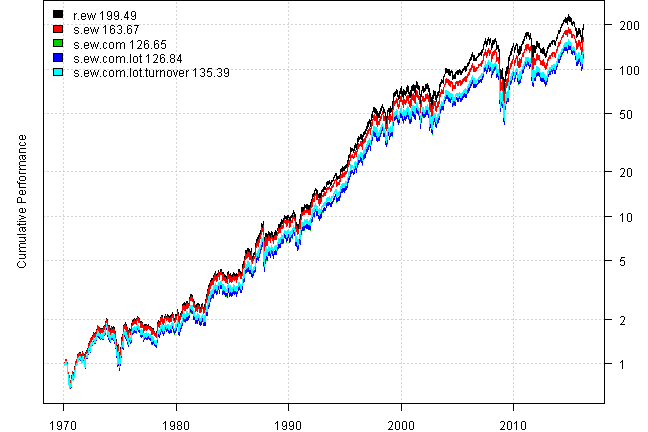
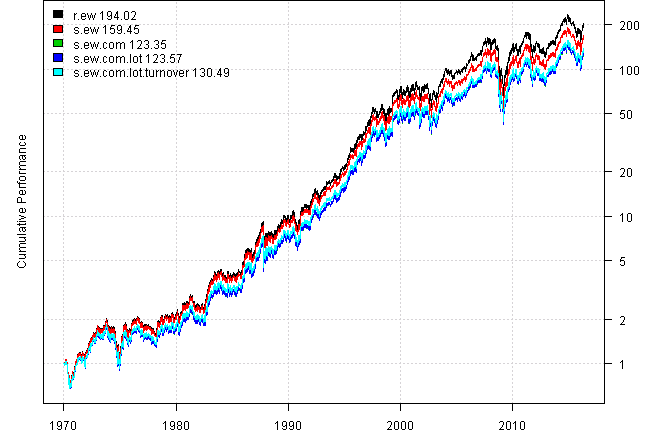
update blog post

diff --git a/_posts/2015-10-19-Backtest-Reality-Check.md b/_posts/2015-10-19-Backtest-Reality-Check.md
@@ -99,16 +99,16 @@ print(plotbt.strategy.sidebyside(models, make.plot=F, return.table=T,perfromance
 
 |              |r.ew              |
 |:-------------|:-----------------|
-|Period        |Jan1970 - Apr2016 |
-|Cagr          |12.11             |
+|Period        |Jan1970 - May2016 |
+|Cagr          |12.03             |
 |Sharpe        |0.65              |
 |DVR           |0.52              |
 |R2            |0.8               |
-|Volatility    |20.98             |
+|Volatility    |20.97             |
 |MaxDD         |-60.67            |
 |Exposure      |99.82             |
 |Win.Percent   |100               |
-|Avg.Trade     |1811.23           |
+|Avg.Trade     |1765.79           |
 |Profit.Factor |NaN               |
 |Num.Trades    |5                 |
     
@@ -146,18 +146,18 @@ print(plotbt.strategy.sidebyside(models, make.plot=F, return.table=T,perfromance
 
 |              |r.ew              |s.ew              |
 |:-------------|:-----------------|:-----------------|
-|Period        |Jan1970 - Apr2016 |Jan1970 - Apr2016 |
-|Cagr          |12.11             |11.64             |
+|Period        |Jan1970 - May2016 |Jan1970 - May2016 |
+|Cagr          |12.03             |11.56             |
 |Sharpe        |0.65              |0.63              |
 |DVR           |0.52              |0.51              |
 |R2            |0.8               |0.81              |
-|Volatility    |20.98             |20.9              |
+|Volatility    |20.97             |20.89             |
 |MaxDD         |-60.67            |-60.88            |
 |Exposure      |99.82             |99.82             |
-|Win.Percent   |100               |55.49             |
-|Avg.Trade     |1811.23           |0.21              |
+|Win.Percent   |100               |55.62             |
+|Avg.Trade     |1765.79           |0.21              |
 |Profit.Factor |NaN               |1.4               |
-|Num.Trades    |5                 |2779              |
+|Num.Trades    |5                 |2785              |
     
 
 
@@ -192,18 +192,18 @@ print(plotbt.strategy.sidebyside(models, make.plot=F, return.table=T,perfromance
 
 |              |r.ew              |s.ew              |s.ew.com          |
 |:-------------|:-----------------|:-----------------|:-----------------|
-|Period        |Jan1970 - Apr2016 |Jan1970 - Apr2016 |Jan1970 - Apr2016 |
-|Cagr          |12.11             |11.64             |11.02             |
+|Period        |Jan1970 - May2016 |Jan1970 - May2016 |Jan1970 - May2016 |
+|Cagr          |12.03             |11.56             |10.94             |
 |Sharpe        |0.65              |0.63              |0.6               |
 |DVR           |0.52              |0.51              |0.49              |
 |R2            |0.8               |0.81              |0.81              |
-|Volatility    |20.98             |20.9              |20.89             |
+|Volatility    |20.97             |20.89             |20.89             |
 |MaxDD         |-60.67            |-60.88            |-60.9             |
 |Exposure      |99.82             |99.82             |99.82             |
-|Win.Percent   |100               |55.49             |55.5              |
-|Avg.Trade     |1811.23           |0.21              |0.21              |
+|Win.Percent   |100               |55.62             |55.62             |
+|Avg.Trade     |1765.79           |0.21              |0.21              |
 |Profit.Factor |NaN               |1.4               |1.4               |
-|Num.Trades    |5                 |2779              |2780              |
+|Num.Trades    |5                 |2785              |2785              |
     
 
 
@@ -239,18 +239,18 @@ print(plotbt.strategy.sidebyside(models, make.plot=F, return.table=T,perfromance
 
 |              |r.ew              |s.ew              |s.ew.com          |s.ew.com.lot      |
 |:-------------|:-----------------|:-----------------|:-----------------|:-----------------|
-|Period        |Jan1970 - Apr2016 |Jan1970 - Apr2016 |Jan1970 - Apr2016 |Jan1970 - Apr2016 |
-|Cagr          |12.11             |11.64             |11.02             |11.02             |
-|Sharpe        |0.65              |0.63              |0.6               |0.61              |
+|Period        |Jan1970 - May2016 |Jan1970 - May2016 |Jan1970 - May2016 |Jan1970 - May2016 |
+|Cagr          |12.03             |11.56             |10.94             |10.95             |
+|Sharpe        |0.65              |0.63              |0.6               |0.6               |
 |DVR           |0.52              |0.51              |0.49              |0.49              |
 |R2            |0.8               |0.81              |0.81              |0.81              |
-|Volatility    |20.98             |20.9              |20.89             |20.89             |
-|MaxDD         |-60.67            |-60.88            |-60.9             |-60.9             |
+|Volatility    |20.97             |20.89             |20.89             |20.88             |
+|MaxDD         |-60.67            |-60.88            |-60.9             |-60.89            |
 |Exposure      |99.82             |99.82             |99.82             |99.82             |
-|Win.Percent   |100               |55.49             |55.5              |55.28             |
-|Avg.Trade     |1811.23           |0.21              |0.21              |0.22              |
+|Win.Percent   |100               |55.62             |55.62             |55.25             |
+|Avg.Trade     |1765.79           |0.21              |0.21              |0.22              |
 |Profit.Factor |NaN               |1.4               |1.4               |1.41              |
-|Num.Trades    |5                 |2779              |2780              |2706              |
+|Num.Trades    |5                 |2785              |2785              |2726              |
     
 
 	
@@ -289,18 +289,18 @@ print(plotbt.strategy.sidebyside(models, make.plot=F, return.table=T,perfromance
 
 |              |r.ew              |s.ew              |s.ew.com          |s.ew.com.lot      |s.ew.com.lot.turnover |
 |:-------------|:-----------------|:-----------------|:-----------------|:-----------------|:---------------------|
-|Period        |Jan1970 - Apr2016 |Jan1970 - Apr2016 |Jan1970 - Apr2016 |Jan1970 - Apr2016 |Jan1970 - Apr2016     |
-|Cagr          |12.11             |11.64             |11.02             |11.02             |11.18                 |
-|Sharpe        |0.65              |0.63              |0.6               |0.61              |0.61                  |
+|Period        |Jan1970 - May2016 |Jan1970 - May2016 |Jan1970 - May2016 |Jan1970 - May2016 |Jan1970 - May2016     |
+|Cagr          |12.03             |11.56             |10.94             |10.95             |11.08                 |
+|Sharpe        |0.65              |0.63              |0.6               |0.6               |0.61                  |
 |DVR           |0.52              |0.51              |0.49              |0.49              |0.5                   |
-|R2            |0.8               |0.81              |0.81              |0.81              |0.81                  |
-|Volatility    |20.98             |20.9              |20.89             |20.89             |20.86                 |
-|MaxDD         |-60.67            |-60.88            |-60.9             |-60.9             |-60.69                |
+|R2            |0.8               |0.81              |0.81              |0.81              |0.82                  |
+|Volatility    |20.97             |20.89             |20.89             |20.88             |20.87                 |
+|MaxDD         |-60.67            |-60.88            |-60.9             |-60.89            |-60.84                |
 |Exposure      |99.82             |99.82             |99.82             |99.82             |99.82                 |
-|Win.Percent   |100               |55.49             |55.5              |55.28             |57.22                 |
-|Avg.Trade     |1811.23           |0.21              |0.21              |0.22              |0.52                  |
+|Win.Percent   |100               |55.62             |55.62             |55.25             |56.73                 |
+|Avg.Trade     |1765.79           |0.21              |0.21              |0.22              |0.52                  |
 |Profit.Factor |NaN               |1.4               |1.4               |1.41              |1.66                  |
-|Num.Trades    |5                 |2779              |2780              |2706              |1164                  |
+|Num.Trades    |5                 |2785              |2785              |2726              |1167                  |
     
 
 	
@@ -351,18 +351,18 @@ print(plotbt.strategy.sidebyside(models, make.plot=F, return.table=T,perfromance
 
 |              |r.ew              |s.ew              |s.ew.com          |s.ew.com.lot      |s.ew.com.lot.turnover |s.ew.com.lot.turnover.unadjusted |
 |:-------------|:-----------------|:-----------------|:-----------------|:-----------------|:---------------------|:--------------------------------|
-|Period        |Jan1970 - Apr2016 |Jan1970 - Apr2016 |Jan1970 - Apr2016 |Jan1970 - Apr2016 |Jan1970 - Apr2016     |Jan1970 - Apr2016                |
-|Cagr          |12.11             |11.64             |11.02             |11.02             |11.18                 |11.53                            |
-|Sharpe        |0.65              |0.63              |0.6               |0.61              |0.61                  |0.63                             |
+|Period        |Jan1970 - May2016 |Jan1970 - May2016 |Jan1970 - May2016 |Jan1970 - May2016 |Jan1970 - May2016     |Jan1970 - May2016                |
+|Cagr          |12.03             |11.56             |10.94             |10.95             |11.08                 |11.45                            |
+|Sharpe        |0.65              |0.63              |0.6               |0.6               |0.61                  |0.63                             |
 |DVR           |0.52              |0.51              |0.49              |0.49              |0.5                   |0.51                             |
-|R2            |0.8               |0.81              |0.81              |0.81              |0.81                  |0.81                             |
-|Volatility    |20.98             |20.9              |20.89             |20.89             |20.86                 |20.74                            |
-|MaxDD         |-60.67            |-60.88            |-60.9             |-60.9             |-60.69                |-60.68                           |
+|R2            |0.8               |0.81              |0.81              |0.81              |0.82                  |0.81                             |
+|Volatility    |20.97             |20.89             |20.89             |20.88             |20.87                 |20.74                            |
+|MaxDD         |-60.67            |-60.88            |-60.9             |-60.89            |-60.84                |-60.68                           |
 |Exposure      |99.82             |99.82             |99.82             |99.82             |99.82                 |99.82                            |
-|Win.Percent   |100               |55.49             |55.5              |55.28             |57.22                 |54.37                            |
-|Avg.Trade     |1811.23           |0.21              |0.21              |0.22              |0.52                  |0.21                             |
+|Win.Percent   |100               |55.62             |55.62             |55.25             |56.73                 |54.34                            |
+|Avg.Trade     |1765.79           |0.21              |0.21              |0.22              |0.52                  |0.21                             |
 |Profit.Factor |NaN               |1.4               |1.4               |1.41              |1.66                  |1.18                             |
-|Num.Trades    |5                 |2779              |2780              |2706              |1164                  |1019                             |
+|Num.Trades    |5                 |2785              |2785              |2726              |1167                  |1025                             |
     
 
 
@@ -414,18 +414,18 @@ print(plotbt.strategy.sidebyside(models, make.plot=F, return.table=T,perfromance
 
 |              |r.ew              |s.ew              |s.ew.com          |s.ew.com.lot      |s.ew.com.lot.turnover |s.ew.com.lot.turnover.unadjusted |s.ew.com.lot.turnover.unadjusted.tax |
 |:-------------|:-----------------|:-----------------|:-----------------|:-----------------|:---------------------|:--------------------------------|:------------------------------------|
-|Period        |Jan1970 - Apr2016 |Jan1970 - Apr2016 |Jan1970 - Apr2016 |Jan1970 - Apr2016 |Jan1970 - Apr2016     |Jan1970 - Apr2016                |Jan1970 - Apr2016                    |
-|Cagr          |12.11             |11.64             |11.02             |11.02             |11.18                 |11.53                            |9.75                                 |
-|Sharpe        |0.65              |0.63              |0.6               |0.61              |0.61                  |0.63                             |0.55                                 |
-|DVR           |0.52              |0.51              |0.49              |0.49              |0.5                   |0.51                             |0.47                                 |
-|R2            |0.8               |0.81              |0.81              |0.81              |0.81                  |0.81                             |0.85                                 |
-|Volatility    |20.98             |20.9              |20.89             |20.89             |20.86                 |20.74                            |20.82                                |
-|MaxDD         |-60.67            |-60.88            |-60.9             |-60.9             |-60.69                |-60.68                           |-61.22                               |
+|Period        |Jan1970 - May2016 |Jan1970 - May2016 |Jan1970 - May2016 |Jan1970 - May2016 |Jan1970 - May2016     |Jan1970 - May2016                |Jan1970 - May2016                    |
+|Cagr          |12.03             |11.56             |10.94             |10.95             |11.08                 |11.45                            |10.17                                |
+|Sharpe        |0.65              |0.63              |0.6               |0.6               |0.61                  |0.63                             |0.57                                 |
+|DVR           |0.52              |0.51              |0.49              |0.49              |0.5                   |0.51                             |0.48                                 |
+|R2            |0.8               |0.81              |0.81              |0.81              |0.82                  |0.81                             |0.84                                 |
+|Volatility    |20.97             |20.89             |20.89             |20.88             |20.87                 |20.74                            |20.78                                |
+|MaxDD         |-60.67            |-60.88            |-60.9             |-60.89            |-60.84                |-60.68                           |-61.01                               |
 |Exposure      |99.82             |99.82             |99.82             |99.82             |99.82                 |99.82                            |99.82                                |
-|Win.Percent   |100               |55.49             |55.5              |55.28             |57.22                 |54.37                            |55.26                                |
-|Avg.Trade     |1811.23           |0.21              |0.21              |0.22              |0.52                  |0.21                             |0.22                                 |
+|Win.Percent   |100               |55.62             |55.62             |55.25             |56.73                 |54.34                            |54.38                                |
+|Avg.Trade     |1765.79           |0.21              |0.21              |0.22              |0.52                  |0.21                             |0.21                                 |
 |Profit.Factor |NaN               |1.4               |1.4               |1.41              |1.66                  |1.18                             |1.19                                 |
-|Num.Trades    |5                 |2779              |2780              |2706              |1164                  |1019                             |941                                  |
+|Num.Trades    |5                 |2785              |2785              |2726              |1167                  |1025                             |1004                                 |
     
 
 
@@ -477,26 +477,26 @@ print(to.nice(mlast(bt.make.trade.event.summary.table(m), 20),0))
 
 |           |Type     |MMM       |AA        |CAT       |KO        |HPQ       |Cash      |Com       |Div       |Value     |
 |:----------|:--------|:---------|:---------|:---------|:---------|:---------|:---------|:---------|:---------|:---------|
-|2015-09-11 |dividend |    9,200 |  141,000 |   17,700 |   33,900 |   45,600 |   32,788 |        0 |   11,187 |6,509,228 |
-|2015-09-30 |trade    |    9,000 |  132,200 |   19,500 |   31,800 |   49,900 |    2,409 |      222 |        0 |6,383,666 |
-|2015-10-22 |dividend |    9,000 |  132,200 |   19,500 |   31,800 |   49,900 |   17,853 |        0 |   15,444 |6,816,366 |
-|2015-10-30 |trade    |    9,000 |  132,200 |   19,500 |   31,800 |   49,900 |   17,853 |        0 |        0 |6,728,628 |
-|2015-11-02 |split    |    9,000 |  132,200 |   19,500 |   31,800 |  110,889 |   17,853 |        0 |        0 |6,995,863 |
-|2015-11-04 |dividend |    9,000 |  132,200 |   19,500 |   31,800 |  110,889 |   21,819 |        0 |    3,966 |7,048,385 |
-|2015-11-18 |dividend |    9,000 |  132,200 |   19,500 |   31,800 |  110,889 |   31,125 |        0 |    9,306 |6,787,706 |
-|2015-11-27 |dividend |    9,000 |  132,200 |   19,500 |   31,800 |  110,889 |   41,651 |        0 |   10,526 |6,854,934 |
-|2015-11-30 |trade    |    9,000 |  132,200 |   19,500 |   31,800 |  110,889 |   41,651 |        0 |        0 |6,850,801 |
-|2015-12-07 |dividend |    9,000 |  132,200 |   19,500 |   31,800 |  110,889 |   55,401 |        0 |   13,750 |6,724,319 |
-|2015-12-31 |trade    |    9,000 |  132,200 |   19,500 |   31,800 |  110,889 |   55,401 |        0 |        0 |6,720,248 |
-|2016-01-15 |dividend |    9,000 |  132,200 |   19,500 |   31,800 |  110,889 |   70,026 |        0 |   14,625 |5,838,668 |
-|2016-01-29 |trade    |    8,000 |  165,800 |   19,400 |   28,100 |  124,500 |    8,376 |      570 |        0 |6,047,461 |
-|2016-02-03 |dividend |    8,000 |  165,800 |   19,400 |   28,100 |  124,500 |   13,848 |        0 |    5,471 |6,115,093 |
-|2016-02-10 |dividend |    8,000 |  165,800 |   19,400 |   28,100 |  124,500 |   22,656 |        0 |    8,808 |6,048,919 |
-|2016-02-29 |trade    |    8,400 |  148,100 |   19,500 |   30,600 |  123,700 |   11,661 |      265 |        0 |6,614,183 |
-|2016-03-07 |dividend |    8,400 |  148,100 |   19,500 |   30,600 |  123,700 |   27,371 |        0 |   15,710 |7,066,850 |
-|2016-03-11 |dividend |    8,400 |  148,100 |   19,500 |   30,600 |  123,700 |   38,142 |        0 |   10,771 |7,057,856 |
-|2016-03-31 |trade    |    8,400 |  148,100 |   19,500 |   30,600 |  123,700 |   38,142 |        0 |        0 |7,292,680 |
-|2016-04-14 |trade    |    8,400 |  148,100 |   19,500 |   30,600 |  123,700 |   38,142 |        0 |        0 |7,429,475 |
+|2015-10-30 |trade    |   11,300 |  165,400 |   24,400 |   39,800 |   62,300 |   19,598 |        0 |        0 |8,419,187 |
+|2015-11-02 |split    |   11,300 |  165,400 |   24,400 |   39,800 |  138,444 |   19,598 |        0 |        0 |8,753,147 |
+|2015-11-04 |dividend |   11,300 |  165,400 |   24,400 |   39,800 |  138,444 |   24,560 |        0 |    4,962 |8,818,726 |
+|2015-11-18 |dividend |   11,300 |  165,400 |   24,400 |   39,800 |  138,444 |   36,245 |        0 |   11,684 |8,492,700 |
+|2015-11-27 |dividend |   11,300 |  165,400 |   24,400 |   39,800 |  138,444 |   49,418 |        0 |   13,174 |8,577,156 |
+|2015-11-30 |trade    |   11,300 |  165,400 |   24,400 |   39,800 |  138,444 |   49,418 |        0 |        0 |8,571,946 |
+|2015-12-07 |dividend |   11,300 |  165,400 |   24,400 |   39,800 |  138,444 |   66,586 |        0 |   17,167 |8,413,821 |
+|2015-12-31 |trade    |   11,300 |  165,400 |   24,400 |   39,800 |  138,444 |   66,586 |        0 |        0 |8,408,530 |
+|2016-01-15 |dividend |   11,300 |  165,400 |   24,400 |   39,800 |  138,444 |   84,886 |        0 |   18,300 |7,305,544 |
+|2016-01-29 |trade    |   10,000 |  207,500 |   24,300 |   35,200 |  155,800 |    8,706 |      705 |        0 |7,567,415 |
+|2016-02-03 |dividend |   10,000 |  207,500 |   24,300 |   35,200 |  155,800 |   15,553 |        0 |    6,848 |7,652,053 |
+|2016-02-10 |dividend |   10,000 |  207,500 |   24,300 |   35,200 |  155,800 |   26,563 |        0 |   11,010 |7,569,199 |
+|2016-02-29 |trade    |   10,500 |  185,300 |   24,400 |   38,300 |  154,800 |   16,272 |      319 |        0 |8,276,707 |
+|2016-03-07 |dividend |   10,500 |  185,300 |   24,400 |   38,300 |  154,800 |   35,932 |        0 |   19,660 |8,843,088 |
+|2016-03-11 |dividend |   10,500 |  185,300 |   24,400 |   38,300 |  154,800 |   49,413 |        0 |   13,482 |8,831,849 |
+|2016-03-31 |trade    |   10,500 |  185,300 |   24,400 |   38,300 |  154,800 |   49,413 |        0 |        0 |9,125,651 |
+|2016-04-21 |dividend |   10,500 |  185,300 |   24,400 |   38,300 |  154,800 |   68,128 |        0 |   18,715 |9,310,298 |
+|2016-04-29 |trade    |   11,100 |  166,400 |   23,900 |   41,400 |  151,500 |    2,313 |      314 |        0 |9,290,052 |
+|2016-05-04 |dividend |   11,100 |  166,400 |   23,900 |   41,400 |  151,500 |    7,305 |        0 |    4,992 |8,959,110 |
+|2016-05-06 |trade    |   11,100 |  166,400 |   23,900 |   41,400 |  151,500 |    7,305 |        0 |        0 |8,938,077 |
     
 
 
@@ -532,4 +532,3 @@ risk, please sign up for a beta testing by filling up the contact form.
 
 For your convenience, the [2015-10-19-Backtest-Reality-Check](https://github.com/systematicinvestor/systematicinvestor.github.io/blob/master/rposts/2015-10-19-Backtest-Reality-Check.R) post source code.
 
-*(this report was produced on: 2016-04-15)*

diff --git a/strategy/Strategy-EAA.md b/strategy/Strategy-EAA.md
@@ -279,4 +279,4 @@ report can also be downloaded and viewed the pdf format.
 
 
 
-*(this report was produced on: 2016-05-07)*
+*(this report was produced on: 2016-05-08)*

diff --git a/strategy/Strategy-FAA.md b/strategy/Strategy-FAA.md
@@ -291,4 +291,4 @@ report can also be downloaded and viewed the pdf format.
 
 
 
-*(this report was produced on: 2016-05-07)*
+*(this report was produced on: 2016-05-08)*

diff --git a/strategy/Strategy-NEW-60-40.md b/strategy/Strategy-NEW-60-40.md
@@ -300,4 +300,4 @@ report can also be downloaded and viewed the pdf format.
 
 
 
-*(this report was produced on: 2016-05-07)*
+*(this report was produced on: 2016-05-08)*

diff --git a/strategy/Strategy-TAA-BANDS.md b/strategy/Strategy-TAA-BANDS.md
@@ -277,4 +277,4 @@ report can also be downloaded and viewed the pdf format.
 
 
 
-*(this report was produced on: 2016-05-07)*
+*(this report was produced on: 2016-05-08)*

diff --git a/strategy/Strategy-TAA.md b/strategy/Strategy-TAA.md
@@ -266,4 +266,4 @@ report can also be downloaded and viewed the pdf format.
 
 
 
-*(this report was produced on: 2016-05-07)*
+*(this report was produced on: 2016-05-08)*

diff --git a/tools/Tool-Country-Relative-Market.md b/tools/Tool-Country-Relative-Market.md
@@ -134,4 +134,4 @@ report can also be downloaded and viewed the pdf format.
 
 
 
-*(this report was produced on: 2016-05-07)*
+*(this report was produced on: 2016-05-08)*

diff --git a/tools/Tool-Canada-Relative-Market.md b/tools/Tool-Canada-Relative-Market.md
@@ -95,4 +95,4 @@ report can also be downloaded and viewed the pdf format.
 
 
 
-*(this report was produced on: 2016-05-07)*
+*(this report was produced on: 2016-05-08)*

diff --git a/tools/Tool-US-Relative-Market.md b/tools/Tool-US-Relative-Market.md
@@ -89,4 +89,4 @@ report can also be downloaded and viewed the pdf format.
 
 
 
-*(this report was produced on: 2016-05-07)*
+*(this report was produced on: 2016-05-08)*

diff --git a/strategy/Strategy-MEOM.md b/strategy/Strategy-MEOM.md
@@ -281,4 +281,4 @@ For more details please check the
 
 
 
-*(this report was produced on: 2016-05-07)*
+*(this report was produced on: 2016-05-08)*
